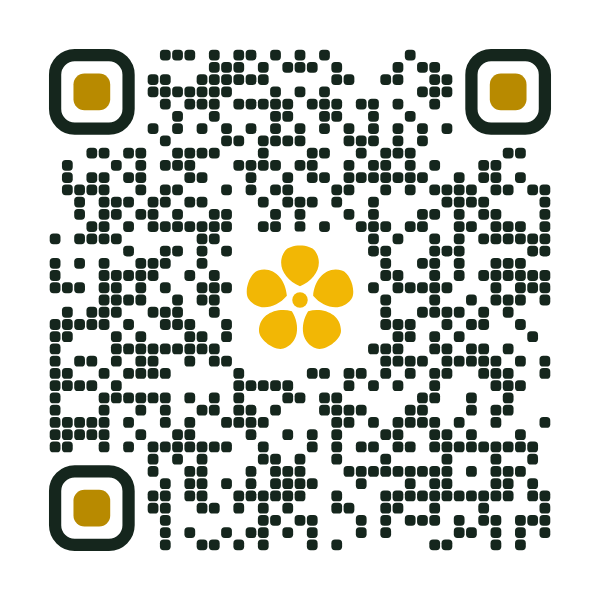
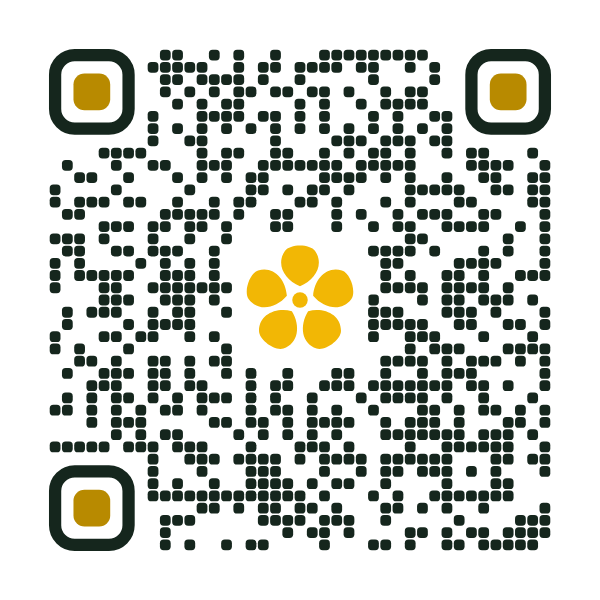
chore: volta deploy no GitHub Pages e atualiza QR para o novo endereço

Changed region(s): [[0.06, 0.06, 0.93, 0.93]]

diff --git a/README.md b/README.md
@@ -4,7 +4,7 @@ Guia digital de saúde comunitária para o bairro Auxiliadora, em Porto Alegre.
 
 Logo, ícones e QR Code ficam em `marca/`. Webapp pensado para celular, acessado por QR Code.
 
-**No ar:** [ENDEREÇO DE PUBLICAÇÃO]
+**No ar:** https://luciocw.github.io/vizinhanca-saudavel/
 
 ## Seções
 
@@ -34,7 +34,7 @@ Todo o texto fica em `src/content/`, em arquivos TypeScript tipados:
 | `apoio.ts` | Telefones, ideias de convivência e fontes |
 | `inicio.ts` | Desafio da semana e dica do dia |
 
-Para publicar, conecta o repositório na Vercel (ou Netlify/Cloudflare Pages): framework Vite, build `npm run build`, pasta `dist`.
+Cada push na `main` publica sozinho no GitHub Pages (`.github/workflows/deploy.yml`).
 
 ## Stack
 
